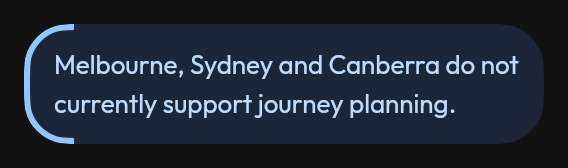
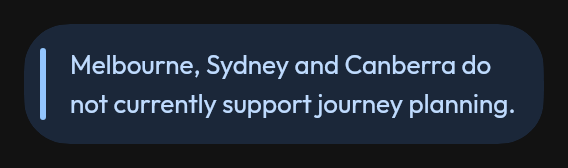
A rule beside the callout, not a bracket around it
Item 18. The accent rule was drawn by stroking the container's own outline
and clipping to a band the width of its corner, so it curved with the
container — all the way. A 22dp corner carried it about 25dp along the top
and bottom edges, and the result read as a "C" bracketing the text rather
than a rule beside it. The golden added at the top of this stage shows it.

Two earlier attempts are worth keeping in the comment, because the fault
they share is the reason this is not a 3dp `Box`. A plain bar inside a
rounded container is eaten by the clip where the curve turns, so a rule
meant to run the full height tapers away at both ends; stroking the
container's path fixes that by construction and buys the curl instead.

The rule is now its own rounded rect at its own much smaller radius — and
*indented* 8dp rather than flush. The indent is arithmetic, not taste: a bar
at x=0 is inside a 22dp corner only where the edge has finished curving,
22dp from either end, so on a two-line callout there is nothing left to
draw. I shipped exactly that stub first and it is what the picture showed.
Set 8dp in, the edge clears it 5dp from the top, and the rule can run the
height of the text — which is also the right thing for it to span, so its
vertical inset matches the content's own padding.

Fixes an RTL bug in passing. Draw coordinates do not flip but the spacer
reserving the strip is a `Row` child and does, so the rule was painted under
the text in RTL. Mirrored by hand now.
[…]

Changed region(s): [[0.0299, 0.1488, 0.9278, 0.8631]]

diff --git a/ui/src/commonMain/kotlin/io/kontour/ui/components/display/Banner.kt b/ui/src/commonMain/kotlin/io/kontour/ui/components/display/Banner.kt
@@ -34,9 +34,11 @@ import androidx.compose.ui.unit.Constraints
 import androidx.compose.ui.draw.drawWithCache
 import androidx.compose.ui.graphics.Path
 import androidx.compose.ui.graphics.addOutline
-import androidx.compose.ui.graphics.drawscope.Stroke
+import androidx.compose.ui.geometry.CornerRadius
+import androidx.compose.ui.geometry.Offset
+import androidx.compose.ui.geometry.Size
+import androidx.compose.ui.unit.LayoutDirection
 import androidx.compose.ui.graphics.drawscope.clipPath
-import androidx.compose.ui.graphics.drawscope.clipRect
 import androidx.compose.ui.unit.dp
 import io.kontour.ui.components.action.ButtonSize
 import io.kontour.ui.components.action.IconButton
@@ -224,38 +226,64 @@ fun Callout(
             .height(IntrinsicSize.Min)
             .clip(shape)
             .background(container, shape)
-            // The rule follows the box's own outline rather than standing beside
-            // it.
+            // A rule down the leading edge, with a corner of its own.
             //
-            // It was a 3dp `Box` down the leading edge, and a straight bar inside
-            // a rounded container fails at exactly the corners: the clip eats it
-            // where the curve turns, so a rule that is supposed to run the full
-            // height stops short at both ends and tapers away. The rounder the
-            // corner the worse it reads, and the shape scale just got rounder.
+            // Two earlier attempts, and the fault they share is worth stating
+            // because it is the reason this looks like more code than a 3dp
+            // `Box`. A plain bar inside a rounded container is eaten by the clip
+            // where the curve turns, so a rule meant to run the full height
+            // tapers away at both ends. Stroking the *container's* path instead
+            // fixes that by construction — the band is the outline, so it curves
+            // with it — but it curves with it all the way, and a 22dp corner
+            // carries the rule a good 25dp along the top and bottom edges. The
+            // result reads as a "C" bracketing the text rather than a rule
+            // beside it.
             //
-            // Stroking the container's own path fixes it by construction — the
-            // band *is* the outline, so it curves with it — and clipping to the
-            // leading corner's width is what keeps it a rule down one edge
-            // rather than a border all the way round. Stroked at twice the width
-            // because a stroke straddles the path and the outer half is clipped.
+            // So: the rule is its own rounded rect at its own much smaller
+            // radius, and it is *indented* from the leading edge rather than
+            // flush against it.
+            //
+            // The indent is what makes it a rule rather than a stub, and that is
+            // arithmetic rather than taste. A bar flush at x=0 is inside a 22dp
+            // corner only where the container's edge has finished curving — 22dp
+            // down from the top and 22dp up from the bottom — so on a two-line
+            // callout there is almost nothing left to draw. Set it 8dp in and
+            // the edge clears it 5dp from the top instead, so the rule can run
+            // the height of the text it is marking. Which is also the right
+            // thing for it to measure: `CalloutRuleInset` matches the content's
+            // own padding, so the rule spans the words rather than the box.
             .drawWithCache {
                 val outline = shape.createOutline(size, layoutDirection, this)
                 val path = Path().apply { addOutline(outline) }
                 val width = CalloutRuleWidth.toPx()
-                val corner = shape.topStart.toPx(size, this)
-                val stroke = Stroke(width = width * 2f)
-                val extent = corner + width
+
+                val indent = CalloutRuleIndent.toPx()
+                val inset = CalloutRuleInset.toPx()
+                val height = (size.height - inset * 2f).coerceAtLeast(0f)
+
+                // Draw coordinates do not flip, but the spacer that reserves this
+                // strip is a `Row` child and does. Mirror by hand or the rule is
+                // painted under the text in RTL.
+                val left = if (layoutDirection == LayoutDirection.Rtl) {
+                    size.width - indent - width
+                } else {
+                    indent
+                }
+
                 onDrawWithContent {
                     drawContent()
                     clipPath(path) {
-                        clipRect(right = extent) {
-                            drawPath(path, accent, style = stroke)
-                        }
+                        drawRoundRect(
+                            color = accent,
+                            topLeft = Offset(left, inset),
+                            size = Size(width, height),
+                            cornerRadius = CornerRadius(width / 2f),
+                        )
                     }
                 }
             },
     ) {
-        Box(Modifier.width(CalloutRuleWidth))
+        Box(Modifier.width(CalloutRuleIndent + CalloutRuleWidth))
         Box(Modifier.padding(Theme.spacing.sm)) {
             CompositionLocalProvider(
                 LocalContentColour provides Theme.colours.accent.onContainer,
@@ -268,6 +296,18 @@ fun Callout(
 
 /** How wide the accent rule down a [Callout]'s leading edge is. */
 private val CalloutRuleWidth = 3.dp
+
+/**
+ * How far in from the leading edge the rule sits.
+ *
+ * Not decoration: a bar flush against the edge is inside the container's own
+ * 22dp corner only over the straight part of that edge, which on a short callout
+ * is almost none of it. See the drawing comment in [Callout].
+ */
+private val CalloutRuleIndent = 8.dp
+
+/** The rule spans the padded content rather than the whole box. */
+private val CalloutRuleInset = 12.dp
 
 @Composable
 private fun bannerColoursFor(tone: BannerTone): StatusColours = when (tone) {
